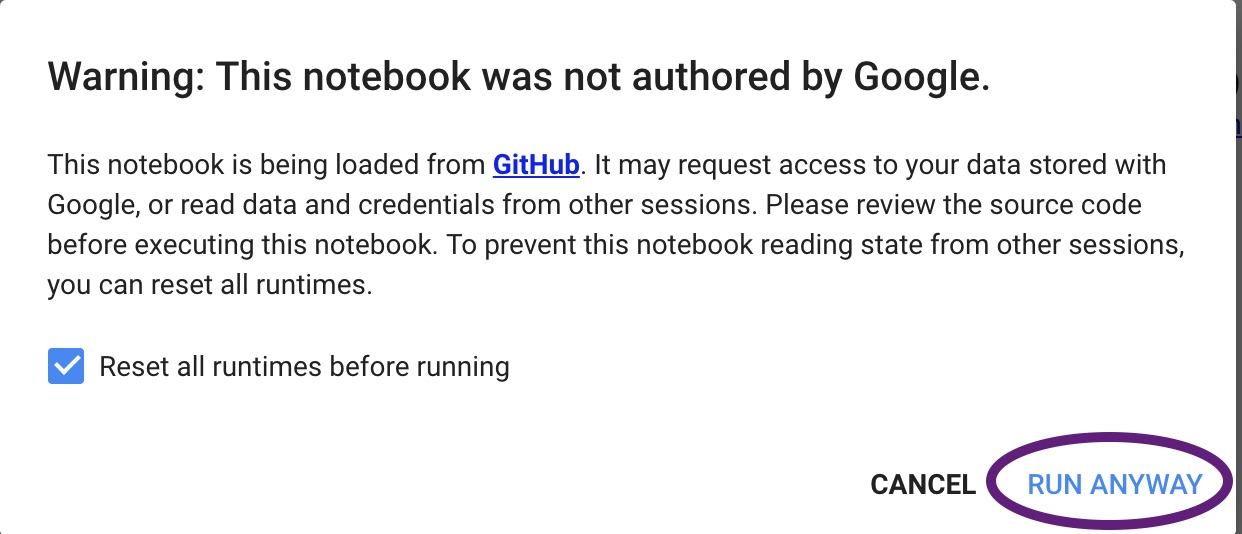
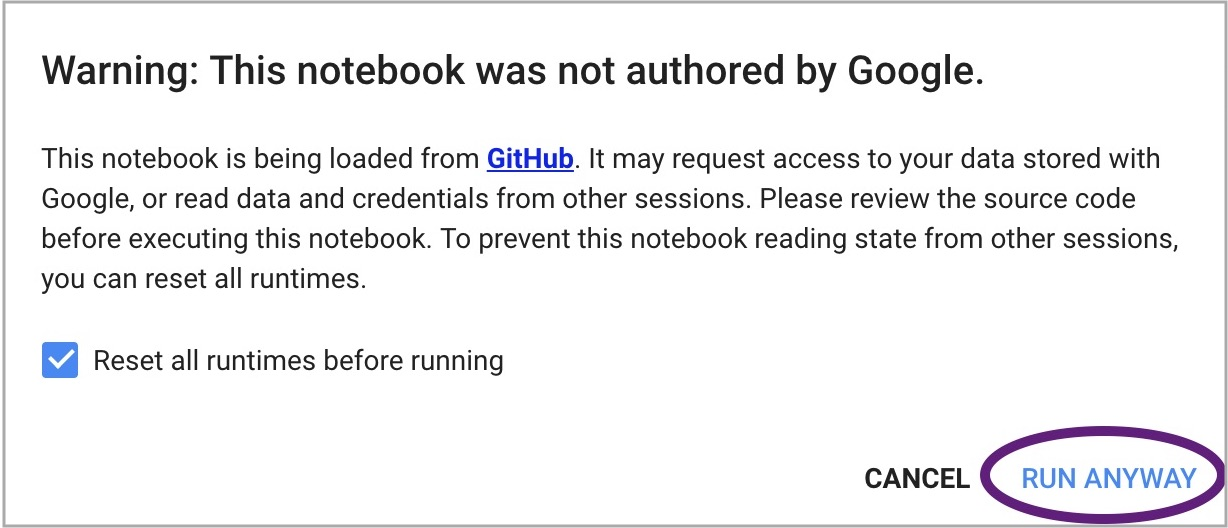
fixed readme images

Changed region(s): [[0.0, 0.0, 1.0, 1.0]]

diff --git a/README.md b/README.md
@@ -17,19 +17,29 @@ Here's how to get started with these workshops uing Google Colaboatory.
 - Go to [Google Colaboratory](https://colab.research.google.com).
 - In the top bar of the welcome window, pick "Github."
 - Enter `quartz/aistudio-workshops` on the long blue line and press Return.
-![Choose "Github"](images/pick_github.jpg)
+
+<img src = "./images/pick_github.jpg" alt="Choose Github" width=400> 
+
 - From the list that appears, pick the notebook for the lesson you'd like.
-![Pick the notebook matching the lesson](images/pick_notebook.jpg)
+
+<img src = "./images/pick_notebook.jpg" alt="Pick the notebook matching the lesson" width=400> 
+
 - You want to run the first code cell in the notebook, by tapping the "play" button on the cell that includes the code `## ALL GOOGLE COLAB USERS RUN THIS CELL`
-![Play the first code cell of the notebook](images/play_first_cell.jpg)
+
+<img src = "./images/play_first_cell.jpg" alt="Play the first code cell of the notebook" width=400> 
+
 - You will get a couple of fun warnings:
-![Click through the first warning](images/non_google_warning.jpg)
-![Click through the second warning](images/reset_runtimes.jpg)
+
+<img src = "./images/non_google_warning.jpg" alt="Click through the first warning" width=400> 
+
+<img src = "./images/reset_runtimes.jpg" alt="Click through the second warning" width=400> 
+
 - Now we need to turn on the GPU! From the "Runtime" menu, pick "Change runtime type."
-![Pick change runtime type](images/change_runtime.jpg)
+
+<img src = "./images/change_runtime.jpg" alt="Pick change runtime type" width=300> 
 
 - Then form the "Hardware accellerator" dropdown, pick "GPU."
 
-<img src = "./images/pick_gpu.jpg" alt="Pick GPU" width=300 style="border:2px solid black"> 
+<img src = "./images/pick_gpu.jpg" alt="Pick GPU" width=400> 
 
 
